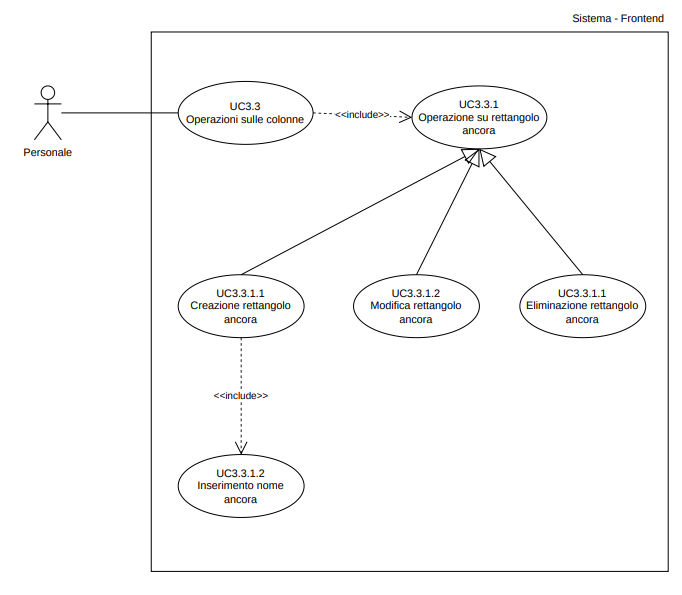
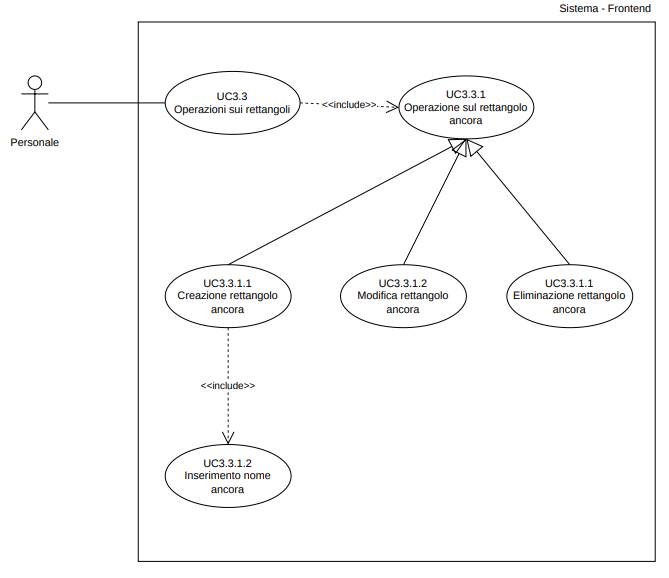
Sistemate un po' di robe

diff --git a/captions_uc.py b/captions_uc.py
@@ -1,0 +1,77 @@
+import re
+import sys
+from pathlib import Path
+
+def compute_uc_code(counters, level):
+    """Genera il codice UC in base ai contatori dei livelli."""
+    # level 4 -> UC1, level 5 -> UC1.1, level 6 -> UC1.1.1, level 7 -> UC1.1.1.1
+    depth = level - 4  # 0-indexed depth
+    parts = [counters[l] for l in range(4, 4 + depth + 1)]
+    return "UC" + ".".join(str(p) for p in parts)
+
+def process_file(input_path: Path, output_path: Path):
+    content = input_path.read_text(encoding="utf-8")
+    lines = content.splitlines(keepends=True)
+
+    # Contatori per livelli 4-7
+    counters = {4: 0, 5: 0, 6: 0, 7: 0}
+
+    # Heading regex: cattura livello (numero di =), titolo e label opzionale
+    heading_re = re.compile(r'^(={4,7})\s+(.+?)(?:<[^>]+>)?\s*$')
+
+    # Caption regex dentro #img(
+    caption_re = re.compile(r'(\s*caption:\s*\[)UC[\d.]+:\s*(.+?)(\])')
+
+    result = []
+    i = 0
+    last_uc_code = None
+    last_uc_title = None
+
+    while i < len(lines):
+        line = lines[i]
+        stripped = line.rstrip('\n')
+
+        m = heading_re.match(stripped)
+        if m:
+            level = len(m.group(1))
+            title = m.group(2).strip()
+
+            if 4 <= level <= 7:
+                # Incrementa il contatore del livello corrente
+                counters[level] += 1
+                # Azzera tutti i livelli inferiori
+                for l in range(level + 1, 8):
+                    counters[l] = 0
+
+                last_uc_code = compute_uc_code(counters, level)
+                last_uc_title = title
+
+            result.append(line)
+            i += 1
+            continue
+
+        # Se siamo dentro un #img( e c'è una caption, aggiornala
+        if last_uc_code and caption_re.search(stripped):
+            new_line = caption_re.sub(
+                lambda mo: f"{mo.group(1)}{last_uc_code}: {last_uc_title}{mo.group(3)}",
+                stripped
+            )
+            result.append(new_line + '\n')
+            i += 1
+            continue
+
+        result.append(line)
+        i += 1
+
+    output_path.write_text("".join(result), encoding="utf-8")
+    print(f"File scritto in: {output_path}")
+
+if __name__ == "__main__":
+    input_path = Path("chapters/3_requirements.typ")
+    output_path = Path("chapters/3_requirements.typ")
+
+    if not input_path.exists():
+        print(f"Errore: file non trovato: {input_path}", file=sys.stderr)
+        sys.exit(1)
+
+    process_file(input_path, output_path)

diff --git a/README.md b/README.md
@@ -1,4 +1,4 @@
-# Smart Accounting, evoluzione sistema lettura DDT
+# Ideazione di una pipeline OCR locale per estrarre dati da documenti di trasporto
 
 ## Introduzione
 Questa tesi è l'elaborato di Matteo Mazzaretto, uno studente del CdL triennale in informatica, redatto nell'a.a. 2025-2026.
